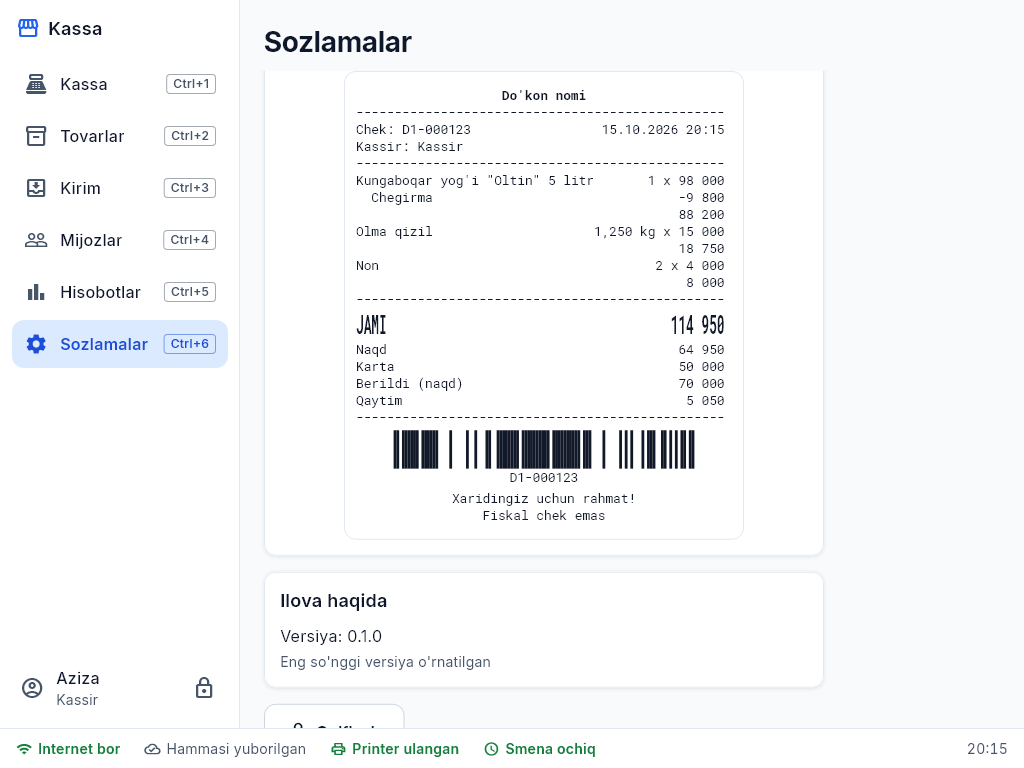
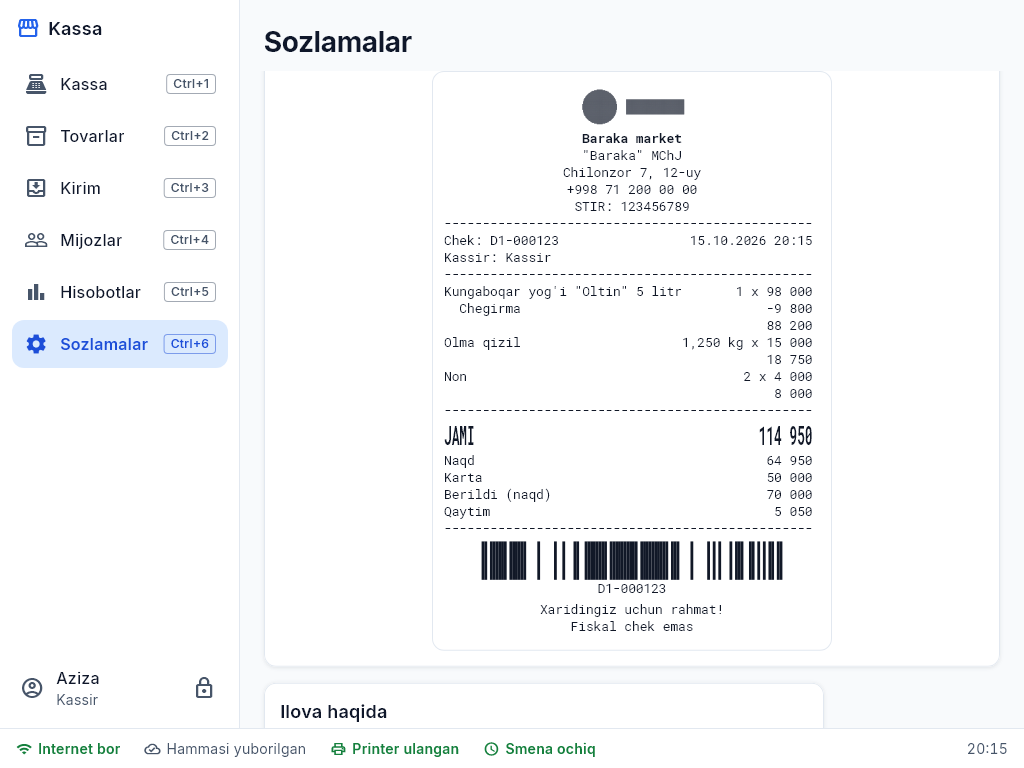
wip: T-104b testlar, golden, hujjatlar

diff --git a/apps/pos/test/goldens/printing_golden_test.dart b/apps/pos/test/goldens/printing_golden_test.dart
@@ -1,9 +1,13 @@
 import 'dart:convert';
 
+import 'package:drift/drift.dart' show Value;
 import 'package:flutter/services.dart';
 import 'package:flutter/widgets.dart';
 import 'package:flutter_test/flutter_test.dart';
 import 'package:pos_app/app/status/app_status.dart';
+import 'package:pos_app/data/db/app_database.dart';
+import 'package:pos_app/data/sync/server_features.dart';
+import 'package:pos_app/features/printing/mono_bitmap.dart';
 import 'package:pos_app/features/printing/printer_service.dart';
 import 'package:pos_app/features/printing/printer_settings.dart';
 import 'package:pos_app/features/printing/receipt.dart';
@@ -21,6 +25,37 @@ Future<void> _open(
 }) async {
   final db = openTestDatabase();
   addTearDown(db.close);
+  // Do'kon rekvizitlari va logotip (T-104b): oddiy geometrik belgi.
+  final logo = GrayImage(
+    160,
+    60,
+    Uint8List.fromList([
+      for (var y = 0; y < 60; y++)
+        for (var x = 0; x < 160; x++)
+          (x - 30) * (x - 30) + (y - 30) * (y - 30) < 700 ||
+                  (x > 70 && y > 18 && y < 42)
+              ? 0
+              : 255,
+    ]),
+  );
+  await db
+      .into(db.stores)
+      .insert(
+        StoresCompanion.insert(
+          id: 'store-1',
+          name: 'Baraka market',
+          legalName: const Value('"Baraka" MChJ'),
+          tin: const Value('123456789'),
+          address: const Value('Chilonzor 7, 12-uy'),
+          phone: const Value('+998712000000'),
+          receiptFooter: const Value('Xaridingiz uchun rahmat!'),
+          receiptLogo: Value(base64Encode(logo.toPng())),
+        ),
+      );
+  await db.writeSetting(
+    serverFeaturesSettingKey,
+    encodeFeatures([ServerFeature.storeSettings]),
+  );
   await db.writeSetting(
     PrinterSettings.settingKey,
     jsonEncode(
@@ -85,5 +120,11 @@ void main() {
   goldenAcrossDevices('printing', 'preview_58', (tester, size) async {
     await _open(tester, size, width: PaperWidth.mm58);
     await _scrollTo(tester, find.byKey(const ValueKey('receipt-preview')));
+  });
+
+  // T-104b: rekvizitlar formasi (o'ng/pastda — jonli chek).
+  goldenAcrossDevices('printing', 'requisites', (tester, size) async {
+    await _open(tester, size);
+    await _scrollTo(tester, find.byKey(const ValueKey('store-name')));
   });
 }

diff --git a/apps/pos/test/features/receipt_settings_test.dart b/apps/pos/test/features/receipt_settings_test.dart
@@ -1,5 +1,4 @@
 import 'dart:convert';
-import 'dart:typed_data';
 
 import 'package:flutter/material.dart';
 import 'package:flutter/services.dart';
@@ -14,6 +13,7 @@ import 'package:pos_app/data/sync/server_features.dart';
 import 'package:pos_app/features/printing/mono_bitmap.dart';
 import 'package:pos_app/features/printing/receipt_preview.dart';
 import 'package:pos_app/features/settings/settings_screen.dart';
+import 'package:pos_ui/pos_ui.dart';
 
 import '../helpers/keyboard.dart';
 import '../helpers/pump_app.dart';
@@ -23,7 +23,7 @@ late AppDatabase _db;
 
 const StaffUser owner = StaffUser(
   id: 'owner-1',
-  fullName: 'Ega',
+  fullName: 'Shavkat',
   role: 'owner',
   isActive: true,
   pinHash: 'hash',
@@ -124,7 +124,7 @@ void main() {
     expect(previewText(tester), contains('"Baraka" MChJ'));
 
     // STIR ni yashirish — chekdan yo'qoladi.
-    await tap(tester, find.widgetWithText(ListTile, 'STIR yoki JShShIR'));
+    await tap(tester, find.widgetWithText(PosListTile, 'STIR yoki JShShIR'));
     expect(previewText(tester), isNot(contains('STIR')));
 
     await tap(tester, find.byKey(const ValueKey('store-logo-pick')));
@@ -161,7 +161,7 @@ void main() {
     await type(tester, 'store-tin', '123456789');
     await tap(tester, find.byKey(const ValueKey('store-save')));
     expect(find.text('Tasdiqlash kerak'), findsOneWidget);
-    await tester.tap(find.text('Ega'));
+    await tester.tap(find.text('Shavkat'));
     await tester.pumpAndSettle();
     await typeSlowly(tester, '1234');
     await press(tester, LogicalKeyboardKey.enter);

diff --git a/apps/pos/lib/features/settings/settings_screen.dart b/apps/pos/lib/features/settings/settings_screen.dart
@@ -52,6 +52,7 @@ class SettingsScreen extends ConsumerWidget {
           _SettingsCard(
             title: l10n.storeSettingsTitle,
             subtitle: l10n.storeSettingsHint,
+            wide: true,
             child: const ReceiptSettingsSection(),
           ),
           const SizedBox(height: PosSpacing.l),
@@ -77,11 +78,15 @@ class _SettingsCard extends StatelessWidget {
     required this.title,
     required this.child,
     this.subtitle,
+    this.wide = false,
   });
 
   final String title;
   final String? subtitle;
   final Widget child;
+
+  /// Keng karta (forma + chek ko'rinishi yonma-yon).
+  final bool wide;
 
   @override
   Widget build(BuildContext context) {
@@ -89,7 +94,7 @@ class _SettingsCard extends StatelessWidget {
     return Align(
       alignment: Alignment.topLeft,
       child: ConstrainedBox(
-        constraints: const BoxConstraints(maxWidth: 560),
+        constraints: BoxConstraints(maxWidth: wide ? 1080 : 560),
         child: PosCard(
           padding: const EdgeInsets.all(PosSpacing.s),
           child: Column(

diff --git a/apps/pos/lib/features/printing/receipt_settings_section.dart b/apps/pos/lib/features/printing/receipt_settings_section.dart
@@ -4,6 +4,7 @@ import 'package:flutter/material.dart';
 import 'package:flutter/services.dart';
 import 'package:flutter_riverpod/flutter_riverpod.dart';
 import 'package:pos_app/app/session/session.dart';
+import 'package:pos_app/core/text/phone.dart';
 import 'package:pos_app/data/db/app_database.dart';
 import 'package:pos_app/data/store/store_settings.dart';
 import 'package:pos_app/data/sync/server_features.dart';
@@ -76,7 +77,7 @@ class _ReceiptSettingsSectionState
     _legalName.text = row.legalName;
     _tin.text = row.tin;
     _address.text = row.address;
-    _phone.text = row.phone;
+    _phone.text = displayPhone(row.phone);
     _header.text = row.receiptHeader;
     _footer.text = row.receiptFooter;
     _logo = decodeStoreLogo(row.receiptLogo);

diff --git a/apps/pos/test/printing/mono_bitmap_test.dart b/apps/pos/test/printing/mono_bitmap_test.dart
@@ -120,7 +120,7 @@ void main() {
 
   test('the logo is printed as raster, within the paper width', () {
     final wide = GrayImage(1000, 100, Uint8List(1000 * 100));
-    final rows = ReceiptBuilder(l10n, width: PaperWidth.mm58).build(
+    final rows = ReceiptBuilder(l10n).build(
       sampleReceipt(l10n, at: DateTime.utc(2026)).withStore(
         storeName: 'X',
         storeAddress: '',

diff --git a/docs/specs/printing.md b/docs/specs/printing.md
@@ -61,3 +61,15 @@ Qaytim                  15 000
   qutisi ochiladi (sozlamada yoqilgan bo'lsa); manzil har harfda emas, yozish to'xtagach saqlanadi.
 - **Jismoniy printerda sinalmagan** (agent muhitida printer yo'q): baytlar unit testlarda, ko'rinish golden testlarda tekshirilgan.
   Birinchi o'rnatishda tekshirish: test cheki (Ў ў Қ Ғ Ҳ, oʻ gʻ, 48 belgili chizg'ich, kesish) — Xprinter 58/80, Epson, Windows, LAN.
+
+## Chek rekvizitlari, ko'rsat/yashir, logotip (T-104b, qaror 0012)
+- **Do'kon darajasi** (hamma kassada bir xil, serverda `Store`, pull orqali): nomi, **yuridik nomi**, **STIR (9) / JShShIR (14)**, manzil,
+  telefon, chek sarlavhasi va pastki matni, **logotip** (kulrang PNG, ≤ 576×240, ≤ 96 KB), **ko'rsat/yashir** (`receipt_options`:
+  logotip, yuridik nom, manzil, telefon, STIR, sarlavha, kassir, shtrix-kod, pastki matn; yo'q kalit — ko'rsatiladi).
+- **Soliq raqami faqat kiritilsa** chiqadi, hech qachon taxmin qilinmaydi; yorlig'i uzunlikka qarab: 9 → "STIR", 14 → "JShShIR" (Q-011).
+- **Muharrir:** Sozlamalar → "Chek rekvizitlari va ko'rinishi": chapda forma, o'ngda (telefonda pastda) **jonli** chek — saqlanmagan
+  o'zgarishlar ham darhol ko'rinadi. Saqlash — ega/menejer (kassir — menejer PIN); lokal `stores` va `store.upserted` bitta tranzaksiyada;
+  boshqa kassalar keyingi sinxronda oladi. Server `features` da `store_settings` bo'lmasa — forma o'chiq, izoh.
+- **Logotip:** fayl (PNG/JPG) → kulrang, kichraytirilgan → PNG (server tekshiradi: PNG imzosi, hajm) → chop etishda printer kengligiga
+  (58 mm — 384, 80 mm — 576 nuqta) 1 bitli rasm, `GS v 0`, 128 qatorli bo'laklar. Ko'rinishda — aynan o'sha nuqtalar.
+- **Qurilma darajasi** (har kassada, `local_settings`): ulanish, kenglik, kodlash, kod sahifasi, `FS .`, kesish, surish, nusxalar, pul qutisi.

diff --git a/AGENT_WORKLOG.md b/AGENT_WORKLOG.md
@@ -21,7 +21,7 @@ barcha modullar regressiyasi, testlar, yakuniy hisobot.
 | 3 | Kirimni tahrirlash (teskari yozuv + yangi kirim, atomar) | ✅ T-102 |
 | 4 | Mijoz boshlang'ich balansi | ✅ T-103 |
 | 5 | Mahsulot rasmi (server + sinx + kassa) | — |
-| 6 | Chek sozlamalari (preview, logo, 58/80 mm, test cheki) | 104a ✅ (PR), 104b — |
+| 6 | Chek sozlamalari (preview, logo, 58/80 mm, test cheki) | ✅ T-104a, T-104b |
 | 7 | Vizual uslub va UX sayqali | — |
 | 8 | Regressiya, yakuniy hisobot | — |
 
@@ -43,5 +43,7 @@ barcha modullar regressiyasi, testlar, yakuniy hisobot.
 
 - T-104a: chek yasovchi xatolari (to'lovlar = JAMI, Berildi/Qaytim, Summa, birlik, bo'sh qatorlar, telefon, belgilar, Ў/ў), ESC/POS profil (`FS .`, kod sahifasi, kesish/surish, baland JAMI), preview (printer bilan bir manba, Roboto Mono), test cheki = namuna chek, 42 belgi, qayta urinish NUSXA emas, pul qutisi avto-cheksiz ham. Golden'da topilgan: preview oxirgi belgini kesardi (mavzu `letterSpacing`) — token 0, regressiya testi. pos 704.
 
+- T-104b: `Store` rekvizitlari (yuridik nom, STIR/JShShIR, logotip, ko'rsat/yashir), `store.upserted`, drift v5, o'z PNG/1-bit/`GS v 0`, muharrir + jonli chek. Golden'da topildi: logotip kengligi yaxlitlanish bilan 380 (384 o'rniga) — tuzatildi; desktop'da forma va chek yonma-yon emas edi — keng karta. pos 728, backend to'liq.
+
 ## Keyingi qadam
-- T-104b: do'kon rekvizitlari (yuridik nom, STIR/JShShIR, sarlavha/pastki matn), ko'rsat/yashir, logotip — server `Store` maydonlari + `store.upserted` + kassa muharriri (`docs/audit/audit_printing.md` 3.1, 3.3).
+- T-105 Mahsulot rasmi — reja: `docs/audit/audit_products.md` "Product images: implementation plan".

diff --git a/docs/decisions/0012-receipt-settings.md b/docs/decisions/0012-receipt-settings.md
@@ -1,0 +1,19 @@
+# 0012. Chek sozlamalari: do'kon rekvizitlari serverda, printer — kassada
+
+- Holat: qabul qilingan (2026-10-15, T-104)
+- Kontekst: loyiha egasi chekda do'kon nomi, logotip, manzil, telefon, soliq rekvizitlari, sarlavha va pastki matnni yoqish/o'chirish va
+  o'zgartirishni, jonli ko'rinish va test chekini talab qildi. Ilgari do'kon ma'lumotini faqat platforma admini (Django admin) o'zgartirardi.
+
+## Qaror
+1. **Do'kon identifikatori** (nom, yuridik nom, STIR/JShShIR, manzil, telefon, sarlavha, pastki matn, logotip, ko'rsat/yashir) — `Store`
+   modelida, hamma kassada bir xil; kassa qayta o'rnatilsa ham yo'qolmaydi. Kassadan `store.upserted` (ega/menejer) — `product.upserted`
+   kabi, oflayn-birinchi.
+2. **Printer apparati** (ulanish, kenglik, kod sahifasi, kesish...) — har kassada `local_settings` (kassalar har xil printerda).
+3. Ko'rsat/yashir — JSON (`receipt_options`), noma'lum kalitlar e'tiborsiz, yo'qlari — ko'rsatiladi: migratsiyasiz kengayadi.
+4. Logotip — kulrang PNG (base64) `Store` da; 1 bitga aylantirish chop etish paytida, printer kengligiga qarab. Tashqi rasm kutubxonasi yo'q
+   (PNG kodlash/dekodlash — o'zimizning ~150 qator, `dart:io` zlib).
+5. Chek ko'rinishi va printer bitta `ReceiptRow` ro'yxatidan — farq qila olmaydi.
+
+## Oqibatlar
+- Server avval yangilanadi (`features: store_settings`), aks holda kassada forma o'chiq.
+- Grafik (rasm) rejimida butun chekni chop etish (қ ғ ҳ uchun) — keyinroq (Q-011).

diff --git a/PROJECT_AUDIT.md b/PROJECT_AUDIT.md
@@ -44,7 +44,7 @@ Holat: ✅ tuzatildi · 🔧 ishlanmoqda · ⏳ rejada · ❓ biznes savoli (`do
 |---|---|---|
 | RC-0 | Tasdiqlangan **kirimni tahrirlash va bekor qilish imkoni yo'q** (serverda bekor qilish endpoint'i bor, lekin kassa ishlatmaydi) | ✅ T-102 (teskari yozuv + yangi versiya, atomar; qaror 0010) |
 | CU-0 | Mijoz yaratishda **boshlang'ich balans** yo'q | ✅ T-103 (qaror 0011) |
-| PRN-0 | Chek sozlamalari bo'limi yo'q: preview, logotip, STIR, ko'rsat/yashir; do'kon ma'lumotini faqat Django admin o'zgartiradi | preview, test cheki, qurilma sozlamalari ✅ T-104a; rekvizitlar, ko'rsat/yashir, logotip ⏳ T-104b |
+| PRN-0 | Chek sozlamalari bo'limi yo'q: preview, logotip, STIR, ko'rsat/yashir; do'kon ma'lumotini faqat Django admin o'zgartiradi | ✅ T-104a (preview, test cheki, qurilma) + T-104b (rekvizitlar, ko'rsat/yashir, logotip; qaror 0012) |
 | PRN-B4 | Xprinter turidagi printerlarda kirillcha xitoycha belgilar bo'lib chiqishi mumkin (`FS .` yuborilmaydi) | ✅ T-104a |
 | PRN-B12 | Aralash to'lovda chekda naqd *berilgan* summa to'lov sifatida chiqadi (to'lovlar yig'indisi JAMI dan katta) | ✅ T-104a |
 | PRN-B13 | Birinchi chop etish xato bo'lsa, qayta urinish mijozga "NUSXA" belgili chek chiqaradi | ✅ T-104a |

diff --git a/docs/PROGRESS.md b/docs/PROGRESS.md
@@ -457,3 +457,8 @@ Har vazifa yoki sessiya oxirida agent shu faylning oxiriga yozadi:
 - Sinov: apps/pos 704 (+ 32/42/48 × 3 til "har qator sig'adi, ortiqcha `?` yo'q", ESC/POS profil/baland/printable, preview kesilmasligi, golden preview 58/80); snapshot'lar ko'rib chiqilib yangilandi.
 - Jismoniy printerda sinalmagan (printer yo'q).
 - Qoldi: T-104b (rekvizitlar, ko'rsat/yashir, logotip).
+
+## 2026-10-15 — T-104b Chek rekvizitlari, ko'rsat/yashir, logotip
+- Qilindi (qaror 0012, `printing.md`): server `Store.legal_name/tin/receipt_logo/receipt_options` (additive migratsiya), `StoreSettingsSerializer` (STIR 9/14 raqam, PNG imzosi va ≤ 96 KB, noma'lum kalitlar tashlanadi), `store.upserted` (ega/menejer, faqat o'z do'koni), pull, `features: store_settings`; kassa drift v5; `mono_bitmap.dart` (kulrang PNG kodlash/dekodlash, 1 bit, `GS v 0` 128 qatorli bo'laklar); chekda rekvizitlar va ko'rsat/yashir (soliq raqami faqat kiritilsa); Sozlamalar → "Chek rekvizitlari va ko'rinishi" (forma + jonli chek, logotip tanlash/olib tashlash, saqlash — ega/menejer yoki PIN).
+- Sinov: backend +11 (`test_store_settings.py`), apps/pos 728 (+8 logotip/rekvizit, +2 saqlash, +4 widget, golden `requisites`).
+- Jismoniy printerda sinalmagan.

diff --git a/docs/STATE.md b/docs/STATE.md
@@ -14,14 +14,15 @@
 - [x] 1. Server: `Store.legal_name/tin/receipt_logo/receipt_options` (migratsiya tenants 0002), `StoreSettingsSerializer`, `store.upserted` (ega/menejer, tenant), pull, `features: store_settings`; testlar 11
 - [x] 2. Kassa: drift v5 (stores ustunlari), pull; `mono_bitmap.dart` (kulrang PNG, 1 bit, `GS v 0`); `ReceiptOptions`, `ReceiptRow.image`, rekvizitlar chekda; `StoreSettingsStore`; `ReceiptSettingsSection` (forma + jonli preview)
 - [x] 3. Testlar: mono_bitmap 8, store_settings 2
-- [ ] 4. Widget testlari (`test/features/receipt_settings_test.dart` — 2 tasi yiqilmoqda, tuzatilmoqda), golden'lar
-- [ ] 5. Hujjatlar, PR, merge
+- [x] 4. Widget testlari, golden'lar
+- [x] 5. Hujjatlar
+- [ ] 6. PR, merge
 
 ## Oxirgi bajarilgan ish
-- T-104b kodi yozildi.
+- T-104b tayyor, PR ochilmoqda.
 
 ## Keyingi aniq harakat
-- `flutter test test/features/receipt_settings_test.dart` — "live preview" va "cashier PIN" testlarini tuzatish.
+- T-104b PR CI yashil bo'lsa merge; keyin T-105 mahsulot rasmi (`docs/audit/audit_products.md` reja).
 
 ## Eslatmalar
 <!-- Keyingi sessiya bilishi kerak bo'lgan narsa: topilgan muammo, vaqtinchalik yechim, nima sinab ko'rildi va ishlamadi -->

diff --git a/docs/ROADMAP.md b/docs/ROADMAP.md
@@ -309,7 +309,7 @@ Audit: `PROJECT_AUDIT.md`, batafsil — `docs/audit/`. Jurnal: `AGENT_WORKLOG.md
 ### [x] T-103 Mijoz boshlang'ich balansi
 - **Bajarish:** mijoz yaratishda "Boshlang'ich balans" (yo'q / mijoz qarzi / mijoz haqi), summa, sana; `opening` qarz yozuvi (bitta mijozga bitta); tarix va profilda; tahrirda qayta qo'shilmaydi.
 
-### [ ] T-104 Chek sozlamalari
+### [x] T-104 Chek sozlamalari
 - **Bajarish:** do'kon rekvizitlari (nom, manzil, telefon, STIR — faqat kiritilsa), sarlavha, pastki matn, logotip, ko'rsat/yashir; 58/80 mm; jonli preview (printer bilan bir model); test cheki; chek xatolari (kodlash, aralash to'lov, NUSXA, pul qutisi).
 
 ### [ ] T-105 Mahsulot rasmi
